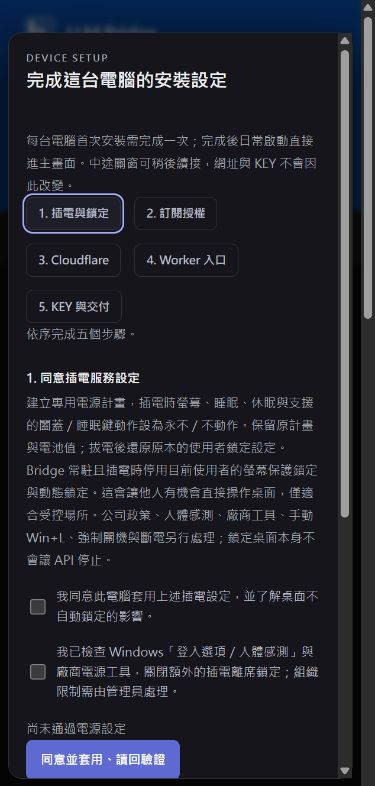
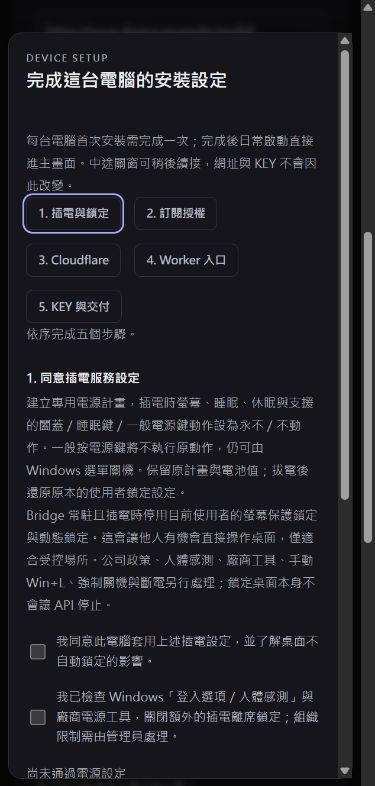
Refresh onboarding consent screenshots and advanced-setup evidence

diff --git a/docs/qa/2026-10-23-windows-onboarding.md b/docs/qa/2026-10-23-windows-onboarding.md
@@ -37,6 +37,8 @@
 
 `onboarding open` 現可明確手動重開已完成精靈；一次 RAM open/opened 旗標經前端確認即清除，不抹 completed_at，也不讓下一次日常啟動重開精靈。已安裝正式檔案另唯讀核對仍為 Windows 0.7.3／`d3f2707`。
 
+後續新增「暫存進度，前往進階設定」：真合成 UI 已驗證關閉精靈後可進設定／模型頁，設定卡仍顯示首次安裝未完成，並能返回精靈；不假存完成旗標。新同意文案明確揭露一般電源鍵設不動作；390px 深色畫面再次檢查無水平溢出，本文兩張圖已更新。交付模型或 native/provider 對應若在測試後改變，現在必須重新 verify；onboarding 專屬測試更新為 26 案例。後續候選將另列來源／hash，不以先前包充當新增行為已封裝。
+
 ![Worker 自有帳戶與一鍵／AI IDE 路徑，合成資料](assets/windows-0.8.0-worker-onboarding-light.png)
 
 ![插電同意與 UAC，窄版深色，未套用任何設定](assets/windows-0.8.0-power-onboarding-narrow-dark.png)
